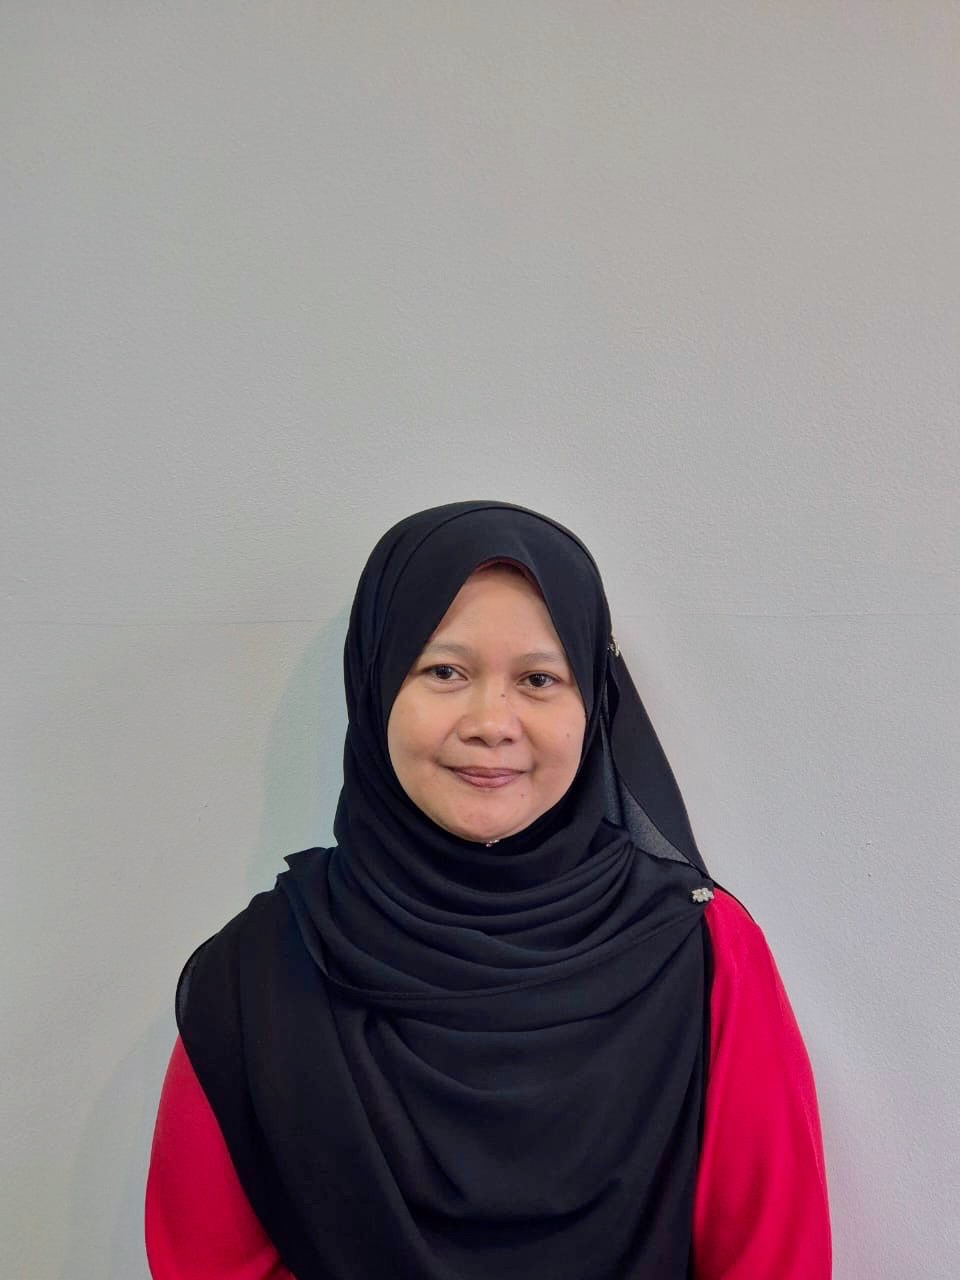
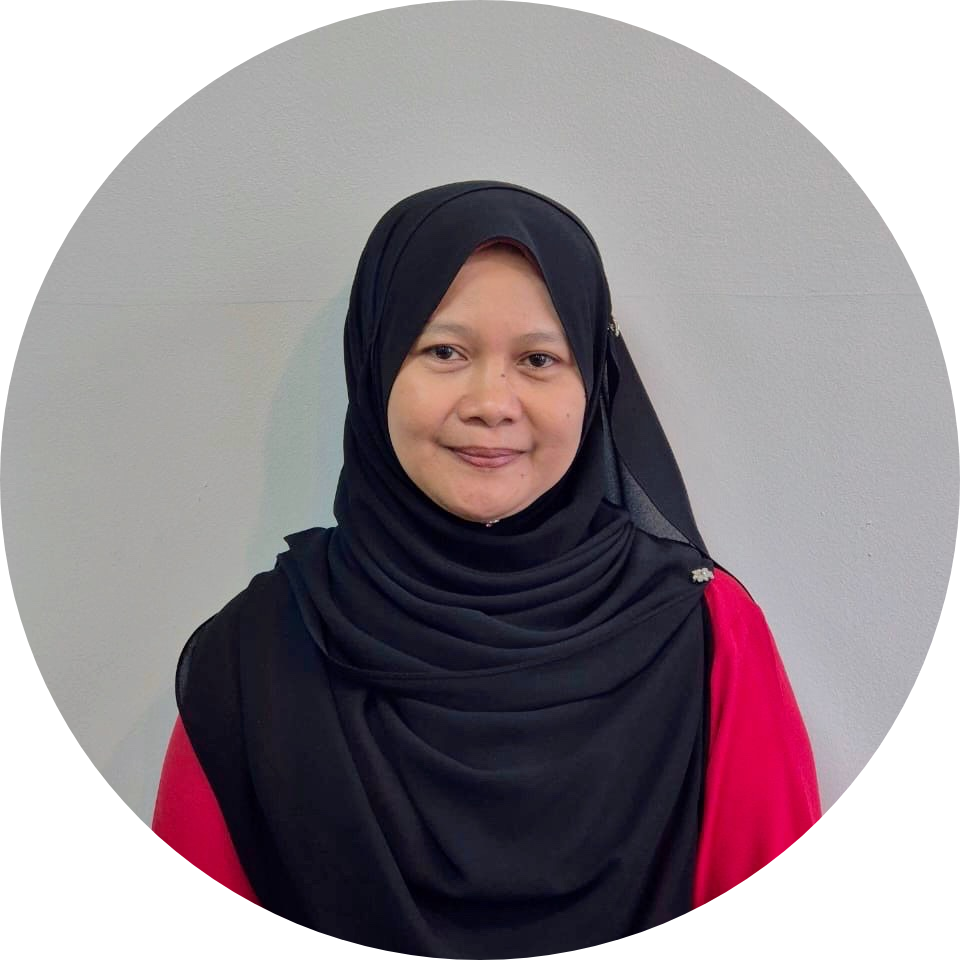
update contacts

diff --git a/contact.html b/contact.html
@@ -607,7 +607,7 @@
 
         <div class="committee-card reveal delay-2">
           <div class="committee-avatar">
-            <img src="images/Mohd Alif Nurfahmi Saad.jpg" alt="Muhammad Alif Iqmal Mahadzir">
+            <img src="images/Mohd Alif Nurfahmi Saad.jpg" alt="Mohd Alif Nurfahmi Saad">
           </div>
           <div class="committee-name">Muhammad Alif Iqmal Mahadzir</div>
           <div class="committee-role">AJK SIARAYA / MULTIMEDIA</div>
@@ -619,10 +619,10 @@
         </div>
 
         <div class="committee-card reveal delay-3">
-          <div class="committee-avatar" style="background:linear-gradient(135deg,var(--crimson-deep),var(--dark-mid)); font-size:2.4rem; color:var(--gold);">
-            🛡
+          <div class="committee-avatar">
+            <img src="images/Suhaida Ismail.jpg" alt="Suhaida Ismail">
           </div>
-          <div class="committee-name">—</div>
+          <div class="committee-name">Suhaida Ismail</div>
           <div class="committee-role">AJK KESELAMATAN &amp; KEBAJIKAN</div>
           <div class="committee-dept"></div>
           <div class="committee-contact">
